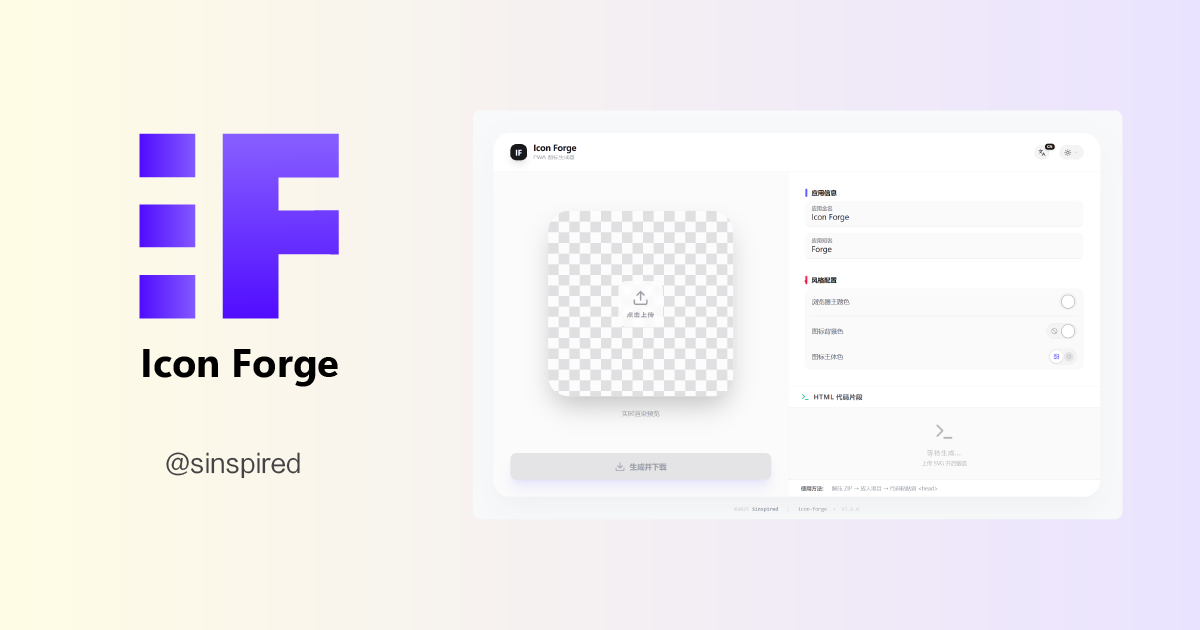
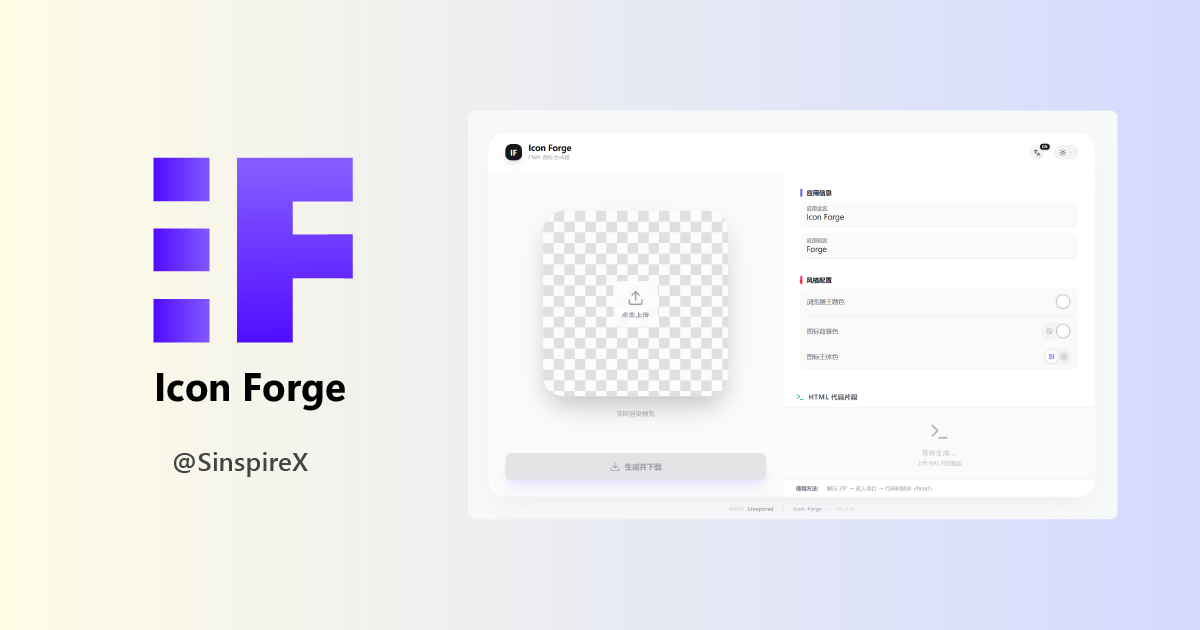
chore: 更新 OG

diff --git a/src/app/layout.js b/src/app/layout.js
@@ -54,7 +54,7 @@ export const metadata = {
     siteName: "Icon Forge",
     images: [
       {
-        url: 'https://icon-forge-two.vercel.app/Icon-Forege_UI.png', 
+        url: 'https://icon-forge-two.vercel.app/Icon-Forge_OG.png', 
         width: 1200,
         height: 630,
         alt: 'Icon Forge PWA Icon Generator',
